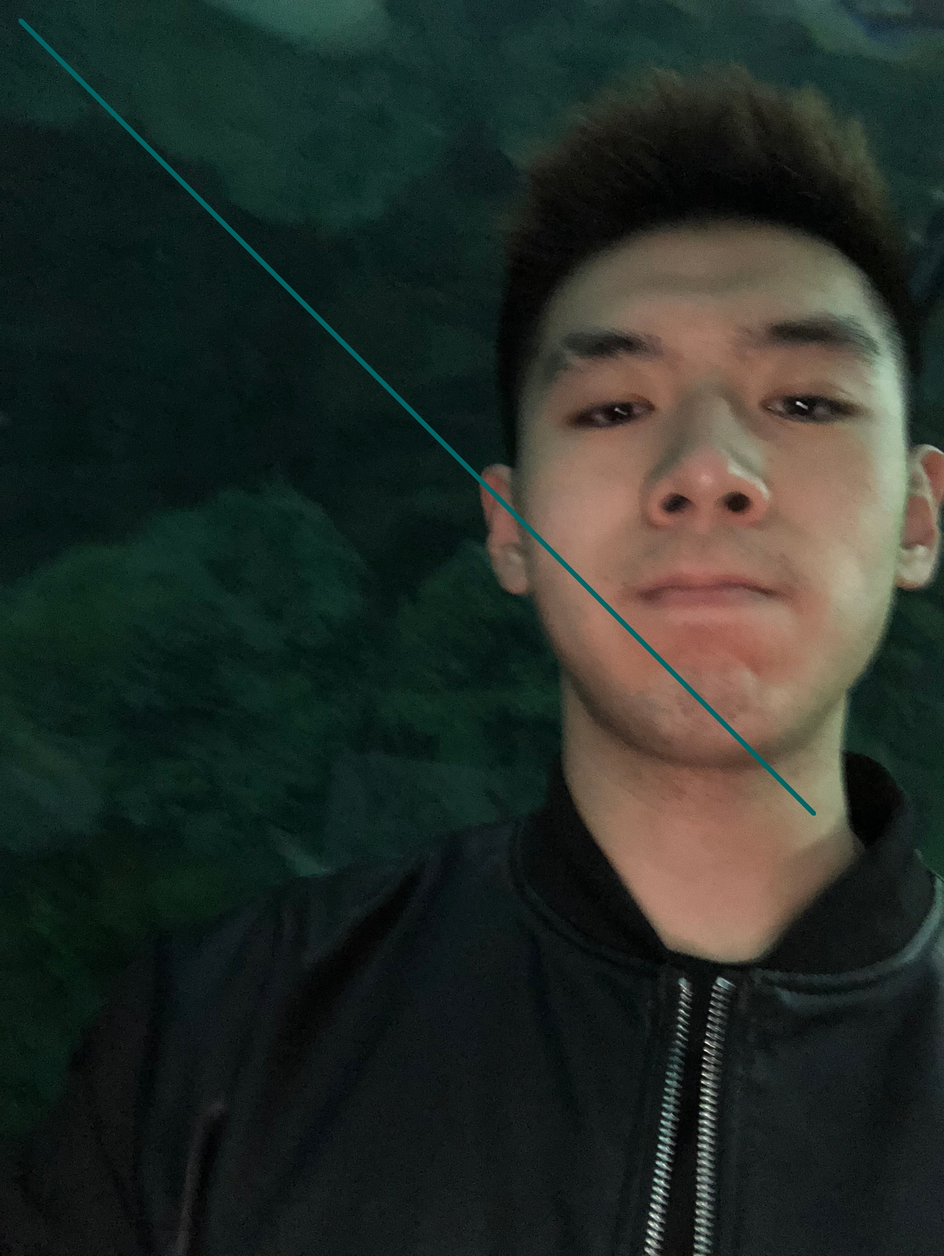
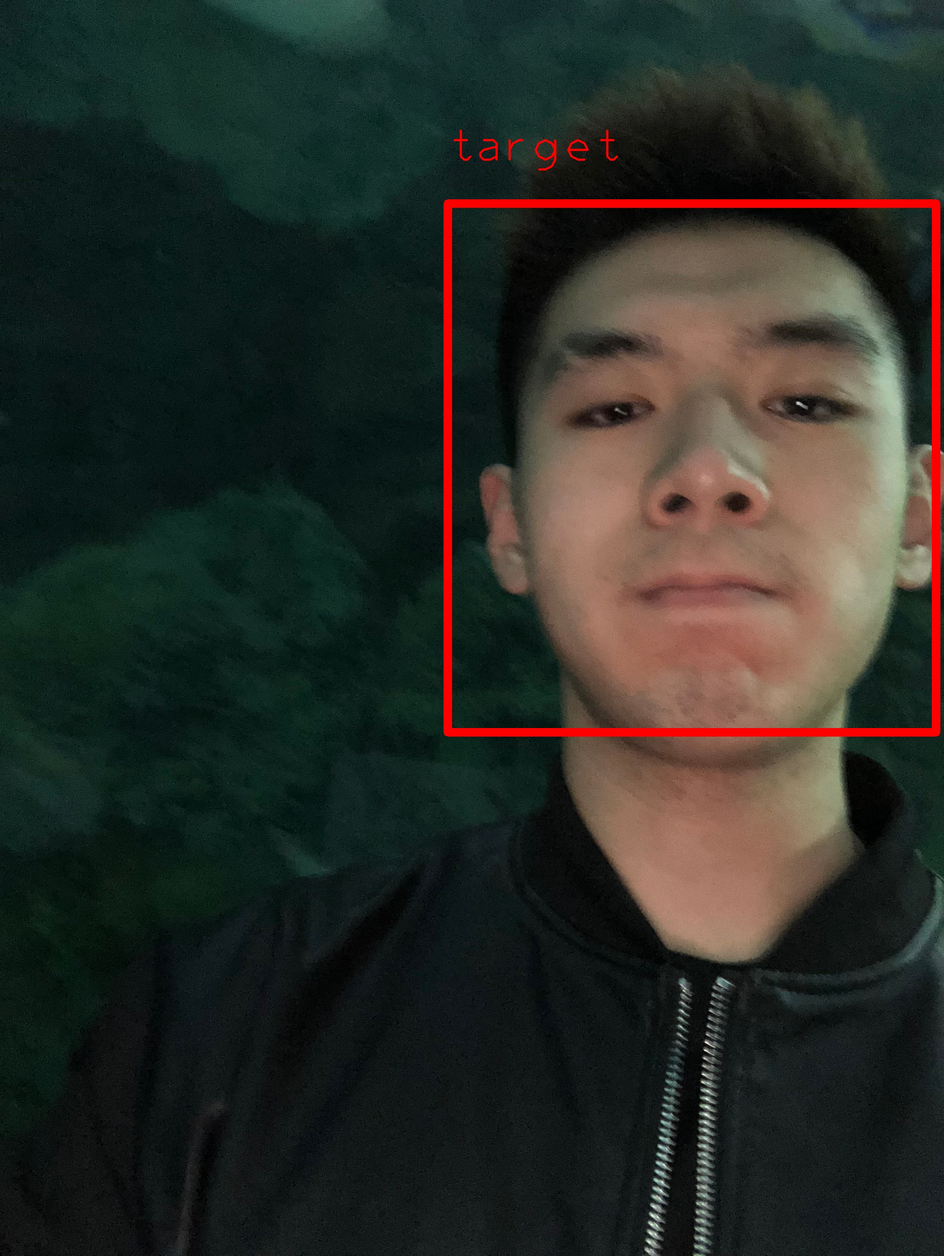
Updated box and text

diff --git a/Test Scripts/Geometric Shapes.py b/Test Scripts/Geometric Shapes.py
@@ -3,7 +3,9 @@ import numpy as np
 
 img = cv2.imread('chris.jpg', 1)
 
-img = cv2.line(img, (50, 50), (2000, 2000), (100, 100, 0), 10)
+img = cv2.rectangle(img, (1100, 500), (2300, 1800), (0, 0, 255), 20)
+font = cv2.FONT_HERSHEY_PLAIN
+img = cv2.putText(img, 'target', (1100, 400), font, 8, (0, 0, 255), 3, cv2.LINE_AA)
 
 cv2.imshow('image', img)
 
